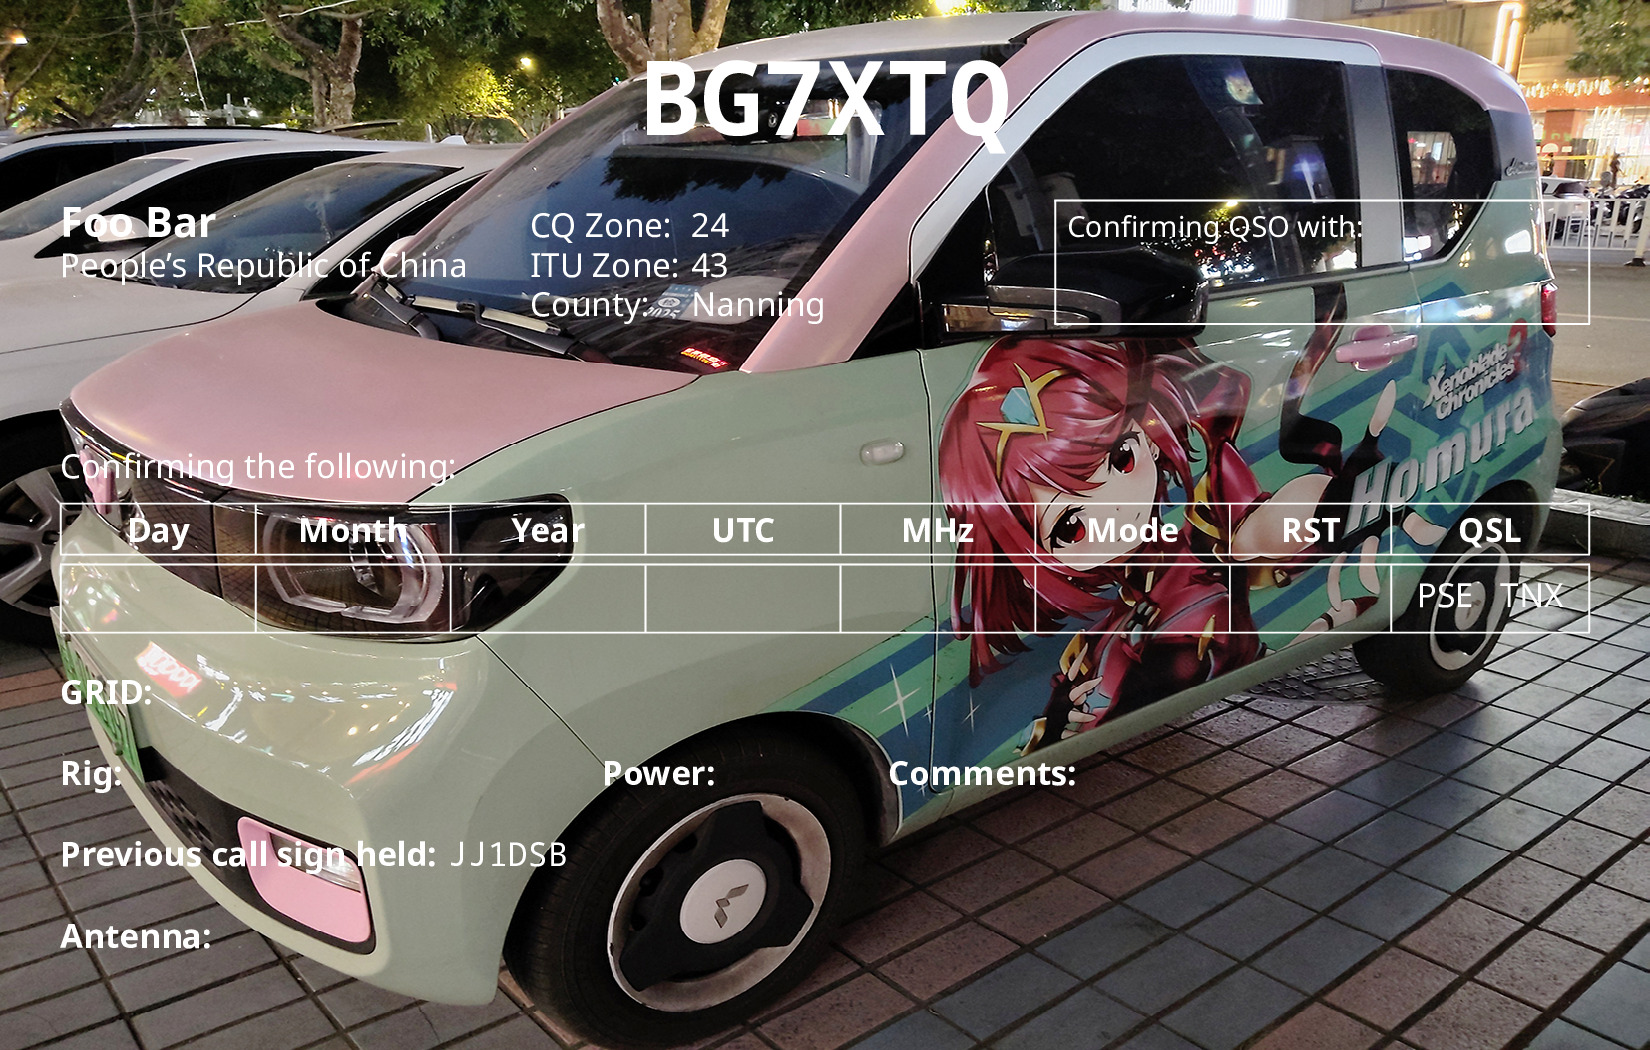
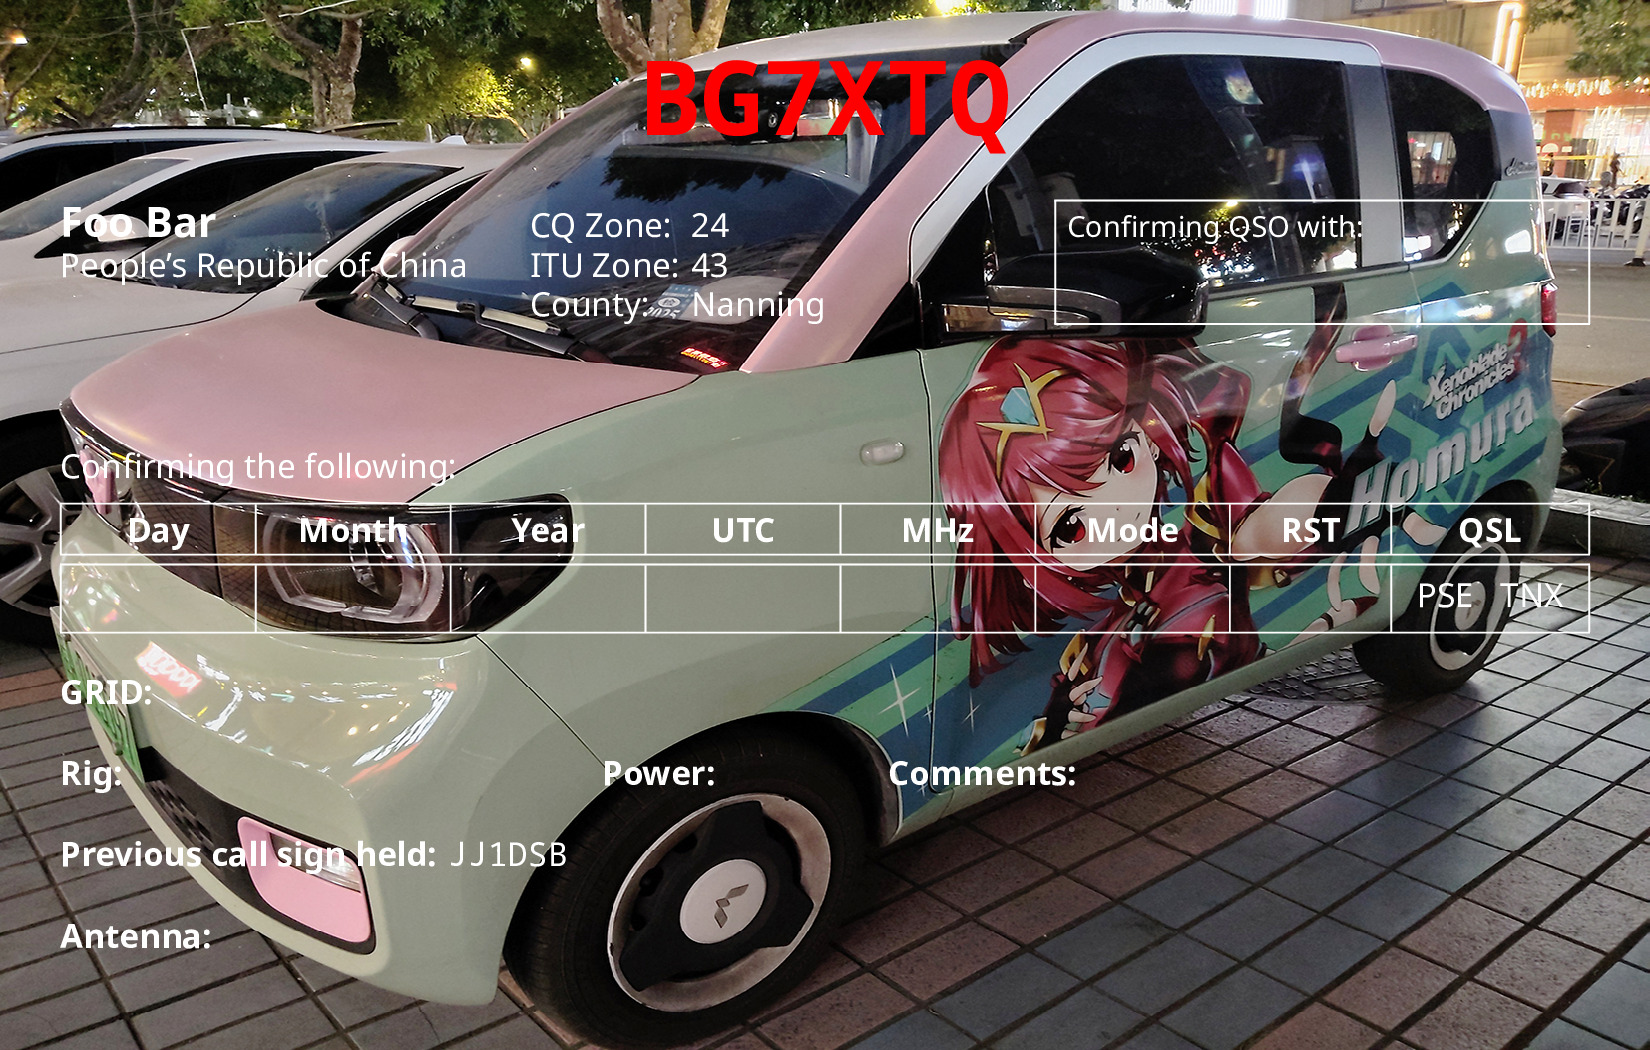
更新设计

Changed region(s): [[0.3709, 0.061, 0.6182, 0.1524]]

diff --git a/BG7XTQ.tex b/BG7XTQ.tex
@@ -34,8 +34,7 @@
 
 \begin{document}
 \begin{minipage}{\textwidth}
-    \centering {\Huge \texttt{\textbf{
-             BG7XTQ     }}}
+    \centering {\Huge \textcolor{red}{\texttt{\textbf{BG7XTQ}}}}
 \end{minipage}
 
 \vfill
